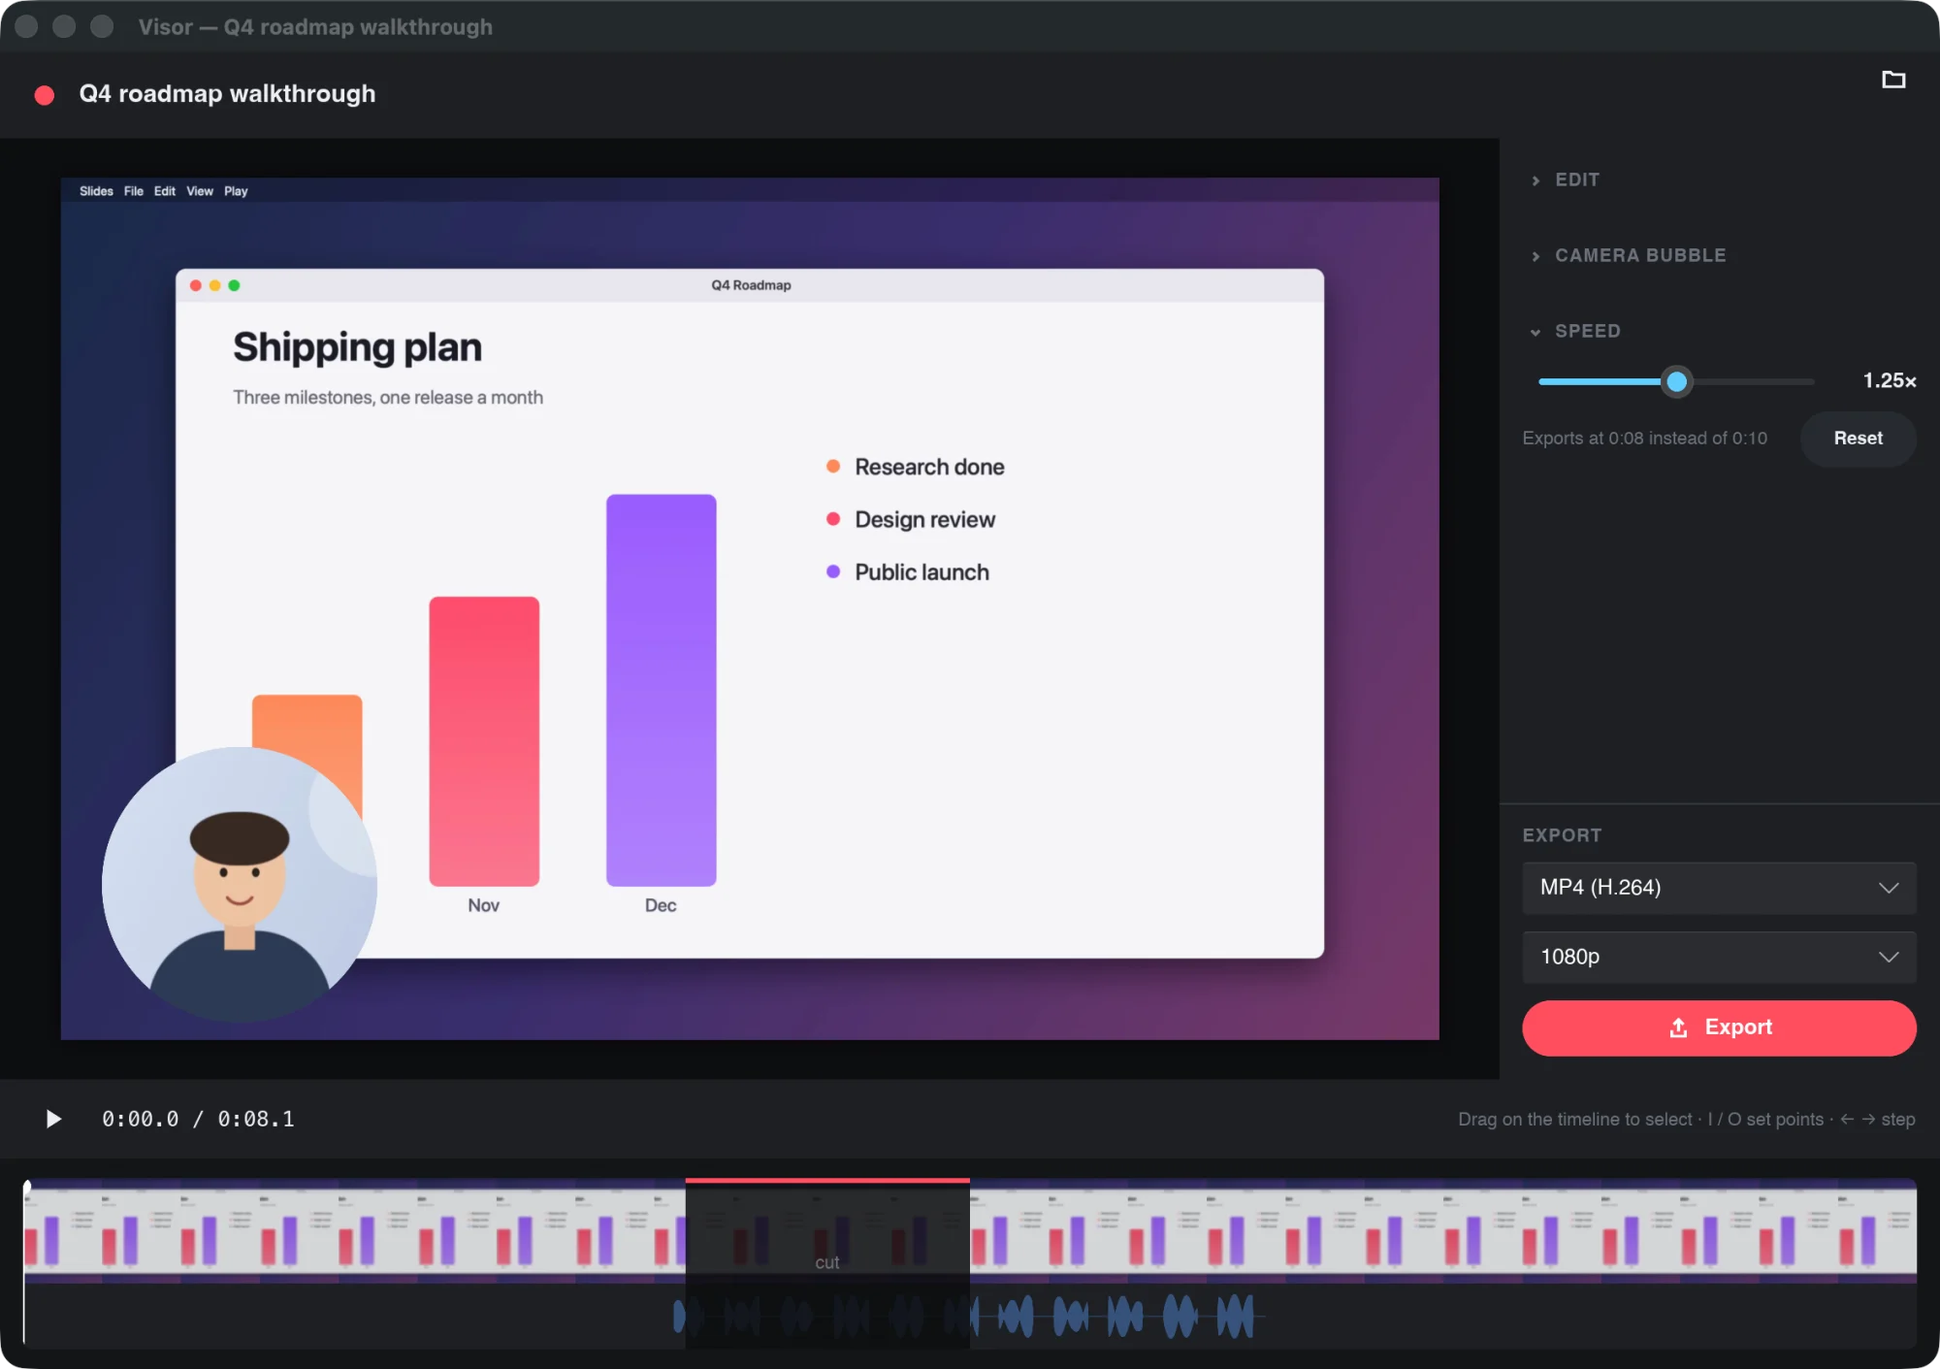
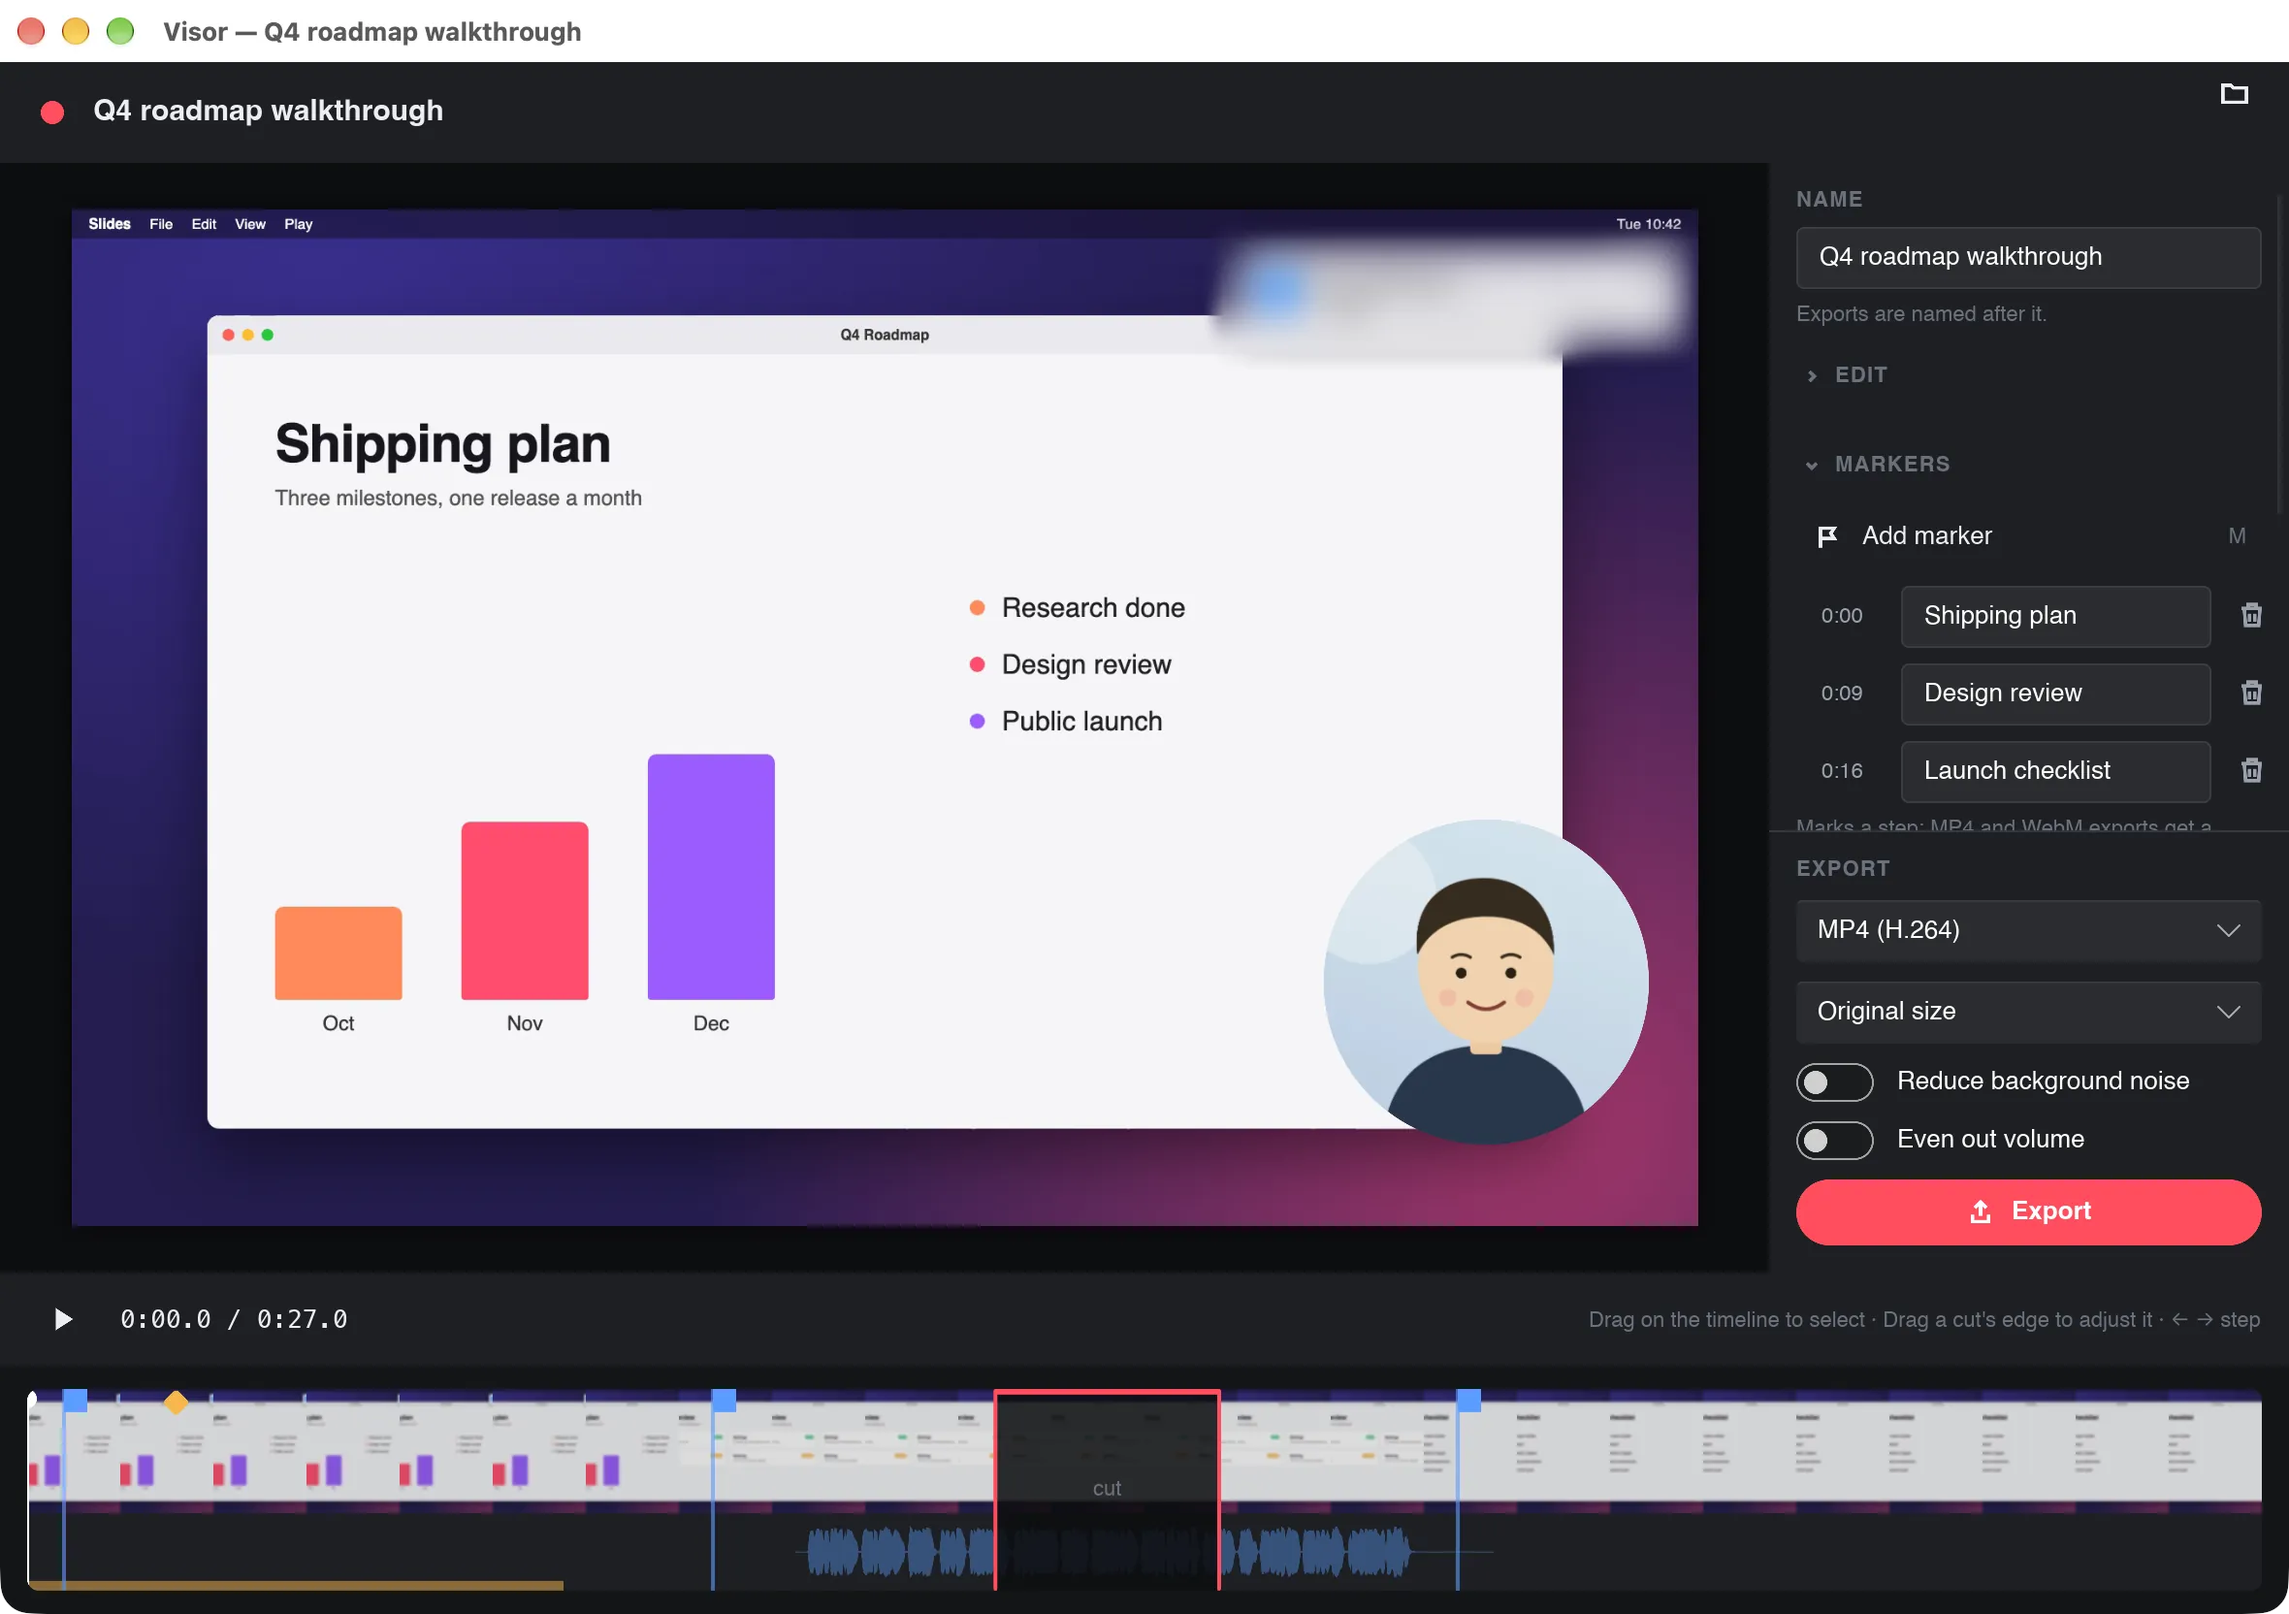
Retake the site's editor screenshot in 0.8.0
Claude-Session: https://claude.ai/code/session_0111qCAn6AXiHFiGo1SbdPDf

diff --git a/site/index.html b/site/index.html
@@ -54,8 +54,8 @@
     </section>
 
     <figure class="shot shot-editor">
-      <img src="assets/editor.webp" width="2000" height="1410"
-           alt="The Visor editor: a recording with a camera bubble, a cut on the timeline, the speed set to 1.25× and export options.">
+      <img src="assets/editor.webp" width="2360" height="1664"
+           alt="The Visor editor: a named recording with a camera bubble, a notification blurred out, a marker at each step, a cut on the timeline and export options.">
     </figure>
 
     <section id="features" class="features">
